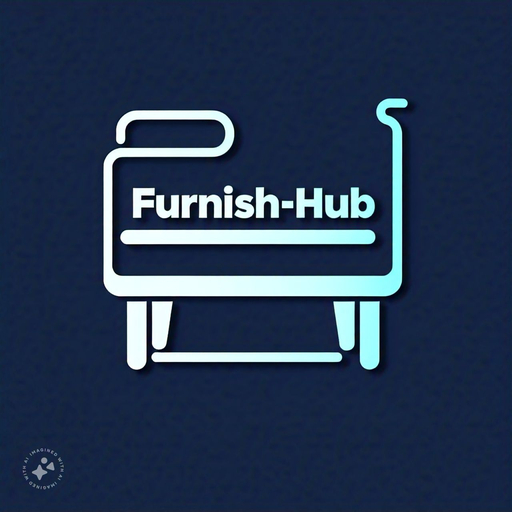
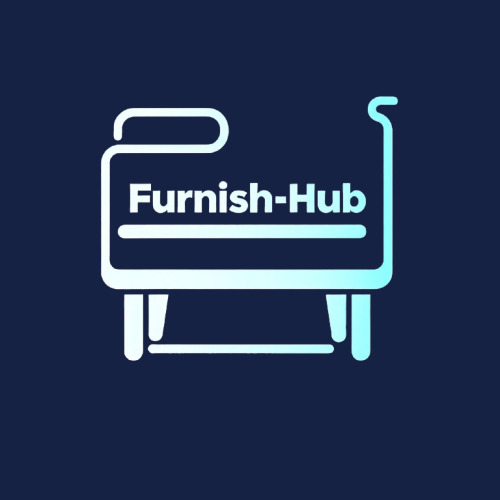
Splash Screen

diff --git a/lib/Pages/Splash_Screen.dart b/lib/Pages/Splash_Screen.dart
@@ -1,5 +1,42 @@
+// import 'package:flutter/material.dart';
+// import 'package:furnishhub/main.dart'; // Replace with your actual main screen
+
+// class SplashScreenView extends StatefulWidget {
+//   const SplashScreenView({super.key});
+
+//   @override
+//   State<SplashScreenView> createState() => _SplashScreenViewState();
+// }
+
+// class _SplashScreenViewState extends State<SplashScreenView> {
+//   @override
+//   void initState() {
+//     super.initState();
+//     Future.delayed(const Duration(seconds: 3), () {
+//       Navigator.of(context).pushReplacement(
+//         MaterialPageRoute(
+//           builder: (context) => MainScreen(), // Replace with your main screen
+//         ),
+//       );
+//     });
+//   }
+
+//   @override
+//   Widget build(BuildContext context) {
+//     return Scaffold(
+//       body: Center(
+//         child: Container(
+//           color: const Color.fromARGB(255, 255, 255, 255),
+//           child: Center(
+//             child: Image.asset('assets/images/playstore.png'),
+//           ),
+//         ),
+//       ),
+//     );
+//   }
+// }
+
 import 'package:flutter/material.dart';
-import 'package:furnishhub/Pages/HomePage.dart';
 import 'package:furnishhub/main.dart'; // Replace with your actual main screen
 
 class SplashScreenView extends StatefulWidget {
@@ -9,10 +46,30 @@ class SplashScreenView extends StatefulWidget {
   State<SplashScreenView> createState() => _SplashScreenViewState();
 }
 
-class _SplashScreenViewState extends State<SplashScreenView> {
+class _SplashScreenViewState extends State<SplashScreenView>
+    with SingleTickerProviderStateMixin {
+  late AnimationController _animationController;
+  late Animation<double> _scaleAnimation;
+
   @override
   void initState() {
     super.initState();
+
+    // Initialize animation controller and animation
+    _animationController = AnimationController(
+      vsync: this,
+      duration: const Duration(milliseconds: 1000), // Animation duration
+    );
+
+    _scaleAnimation = CurvedAnimation(
+      parent: _animationController,
+      curve: Curves.easeOutBack, // Gives a "pop" effect
+    );
+
+    // Start the animation
+    _animationController.forward();
+
+    // Navigate to the next screen after a delay
     Future.delayed(const Duration(seconds: 3), () {
       Navigator.of(context).pushReplacement(
         MaterialPageRoute(
@@ -23,19 +80,21 @@ class _SplashScreenViewState extends State<SplashScreenView> {
   }
 
   @override
+  void dispose() {
+    _animationController.dispose();
+    super.dispose();
+  }
+
+  @override
   Widget build(BuildContext context) {
     return Scaffold(
       body: Center(
         child: Container(
-          color: const Color.fromARGB(255, 211, 152, 130),
-          child: const Center(
-            child: Text(
-              "Furnish-Hub",
-              style: TextStyle(
-                fontSize: 24,
-                fontWeight: FontWeight.bold,
-                color: Colors.white,
-              ),
+          color: Color(0xFF152244),
+          child: Center(
+            child: ScaleTransition(
+              scale: _scaleAnimation,
+              child: Image.asset('assets/images/playstore.png'),
             ),
           ),
         ),
